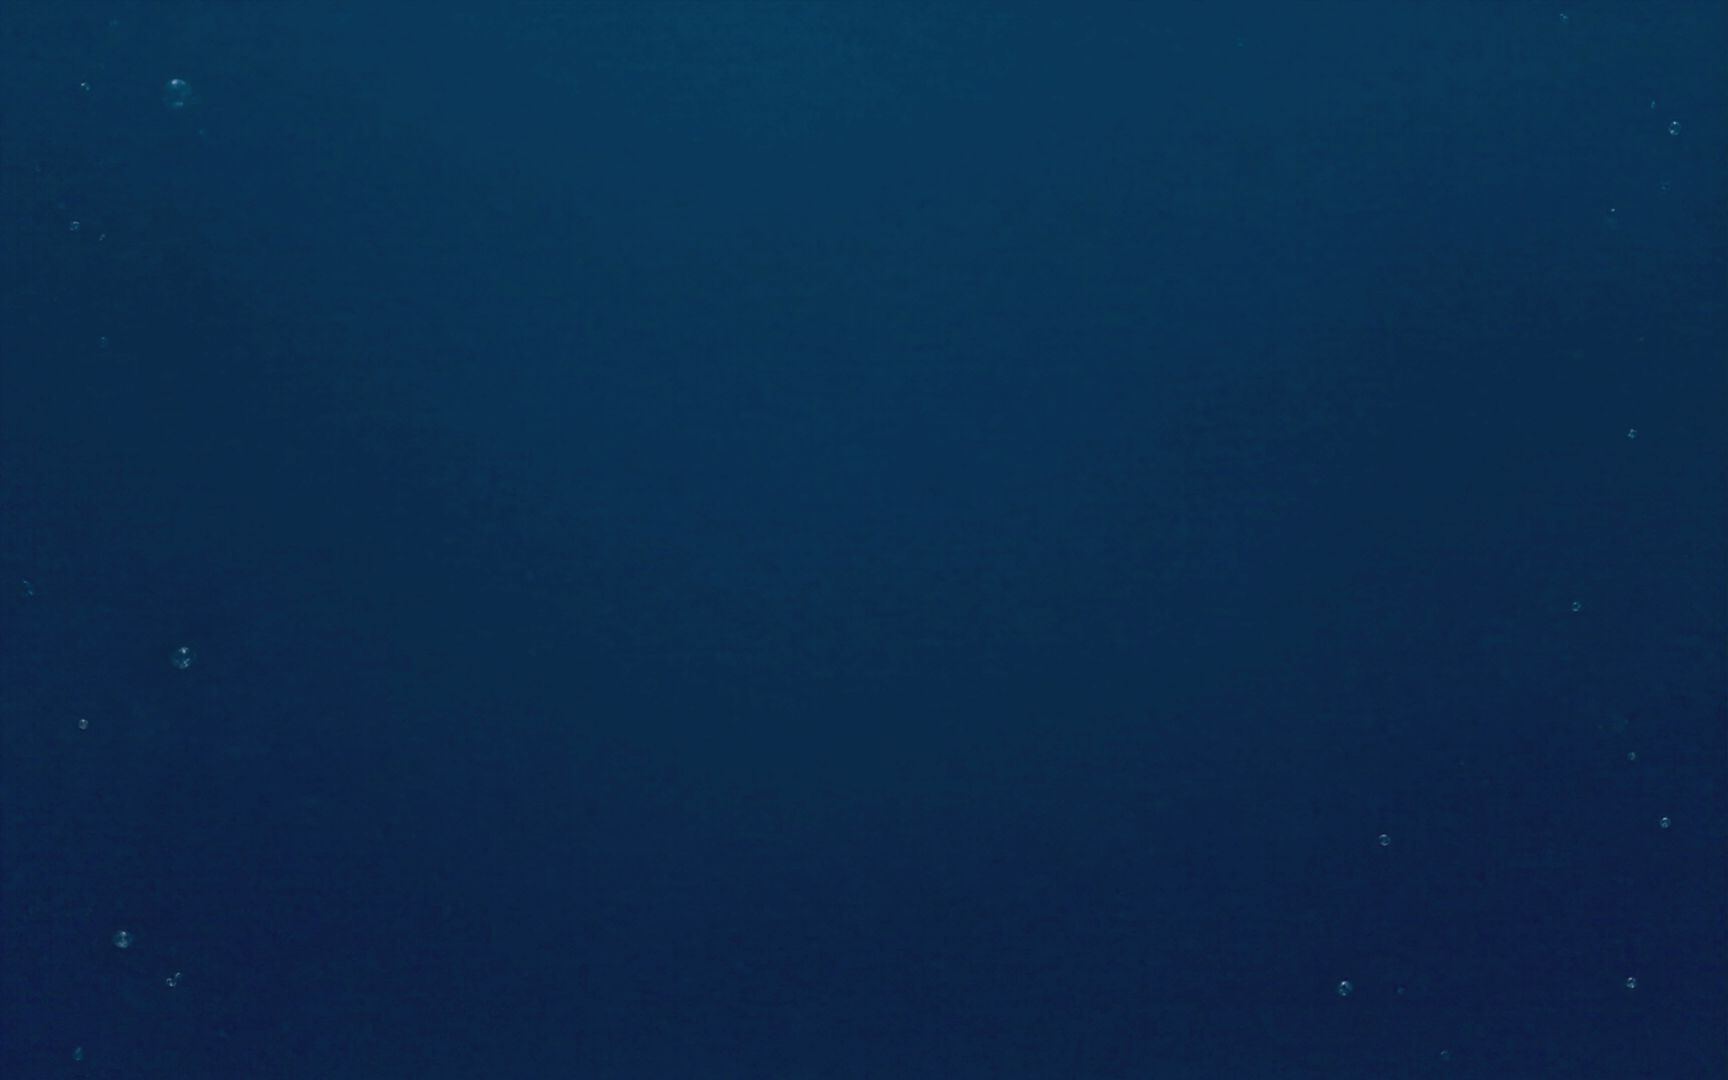
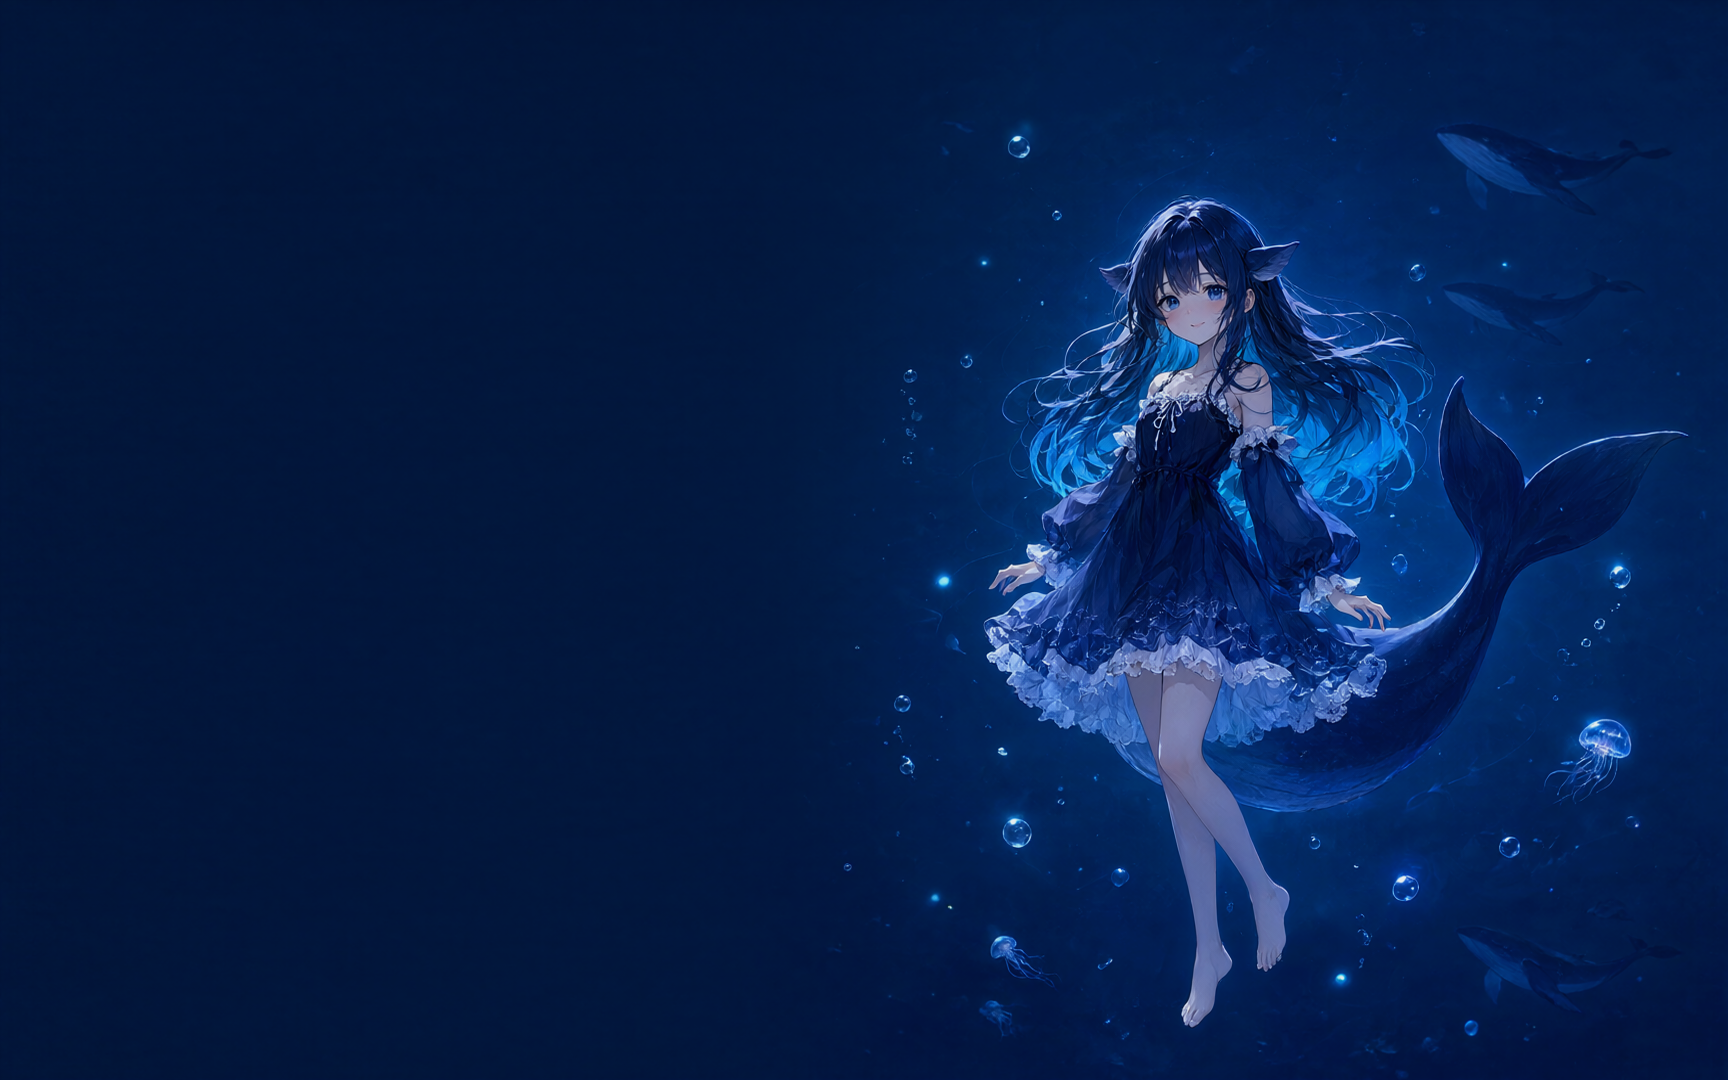
feat: 主题背景换成少女形态鲸鱼娘——主窗右下角站姿、面板底部探头
之前的主/面板背景是纯深海渐变（生成提示词明确要求无人物），观感只是
「换了背景色」。现在改成可复现的 character_backgrounds.py：文生图直接
出十几岁少女形态的鲸鱼娘（不用参考图，摆脱 Q 版女仆锚定）——

- main：少女站主窗右下角漂浮，左侧 2/3 深海留白给界面叠字
- panel：少女从面板底部探头挥手，上部 3/4 留白
- 生成后压对比 + 平均亮度低于 32 自动伽马抬升，保证深色 UI 里看得见
- gen_theme.py 的 --display-name/--character-name 默认值改为「鲸鱼娘」

diff --git a/tools/theme/character_backgrounds.py b/tools/theme/character_backgrounds.py
@@ -1,0 +1,96 @@
+# 生成「带鲸鱼娘角色」的主界面/面板背景：Qwen-Image 2.1 参考图引导，
+# 角色站在角落、大面深海留白给界面叠字。复用 gen_theme.py 的客户端与图构建。
+# 用法：python tools/theme/character_backgrounds.py --reference tools/theme/reference/whale_maid.jpg
+import argparse
+import io
+import sys
+import time
+from pathlib import Path
+
+sys.path.insert(0, str(Path(__file__).resolve().parent))
+from gen_theme import Comfy, generate_one  # noqa: E402
+
+from PIL import Image, ImageEnhance  # noqa: E402
+
+# (生成尺寸, 入库尺寸)：latent 步长要求 32 的倍数，入库尺寸差一点用缩放补。
+SIZES = {
+    'main': ((1728, 1056), (1728, 1080)),
+    'panel': ((1600, 896), (1600, 900)),
+}
+
+PROMPTS = {
+    'main': (
+        '横版桌面应用背景插画，深蓝色深夜海洋幻想世界。画面右侧站着一位'
+        '十几岁的鲸鱼少女：人类少女体型，及腰的深蓝色长发发梢渐变成浅蓝，'
+        '头上有小小的鲸鱼耳鳍，身后一条大大的深蓝色鲸鱼尾巴，穿着缀白色'
+        '蕾丝的深蓝色海洋风连衣裙，赤脚轻轻漂浮，长发扬起、裙摆在水中飘动，'
+        '温柔地微笑，身边环绕发光气泡、小水母、光斑和远处悠游的鲸鱼剪影，'
+        '人物完整清晰。画面左侧三分之二是干净的深海渐变、大量留白，供界面'
+        '文字排版。整体深海军蓝色调、柔和低对比、梦幻治愈，画面中没有任何文字。'
+    ),
+    'panel': (
+        '窄长竖向面板背景插画，深蓝色深夜海洋渐变。画面底部探出一位十几岁'
+        '鲸鱼少女的上半身：深蓝色长发发梢渐变浅蓝、鲸鱼耳鳍、身后露出一段'
+        '鲸鱼尾巴，穿着深蓝色海洋风连衣裙，温柔地微笑挥手，长发与气泡轻轻'
+        '飘动。画面上部四分之三是干净的深海渐变留白，供界面内容使用。'
+        '深海军蓝色调、柔和低对比、梦幻治愈，画面中没有任何文字。'
+    ),
+}
+
+SEEDS = {'main': 20261101, 'panel': 20261102}
+
+
+def mean_rgb(im):
+    im2 = im.convert('RGB').resize((1, 1))
+    return im2.getpixel((0, 0))
+
+
+def ensure_visible(im, floor=32):
+    """平均亮度低于 floor 就做伽马抬升，保证在深色 UI 里看得见。"""
+    mean = sum(mean_rgb(im)) / 3
+    if mean >= floor:
+        return im, None
+    gamma = 0.62
+    lut = [round(255 * (i / 255) ** gamma) for i in range(256)]
+    return im.point(lut * 3), mean
+
+
+def main():
+    ap = argparse.ArgumentParser()
+    ap.add_argument('--reference', default=None,
+                    help='可选：参考图（保角色用）。少女形态不用参考，纯文字生成')
+    ap.add_argument('--base', default='http://127.0.0.1:8188')
+    ap.add_argument('--out', default=None, help='背景输出目录（默认 themes/xiaoai-whale/backgrounds）')
+    args = ap.parse_args()
+
+    out_dir = Path(args.out) if args.out else \
+        Path(__file__).resolve().parents[2] / 'themes' / 'xiaoai-whale' / 'backgrounds'
+    out_dir.mkdir(parents=True, exist_ok=True)
+
+    comfy = Comfy(args.base)
+    ref_name = comfy.upload_input(args.reference) if args.reference else None
+    if ref_name:
+        print(f'[ref] {args.reference} -> {ref_name}')
+
+    for key in ('main', 'panel'):
+        (gen_size, out_size) = SIZES[key]
+        t0 = time.time()
+        data, dt = generate_one(comfy, PROMPTS[key], gen_size[0], gen_size[1],
+                                SEEDS[key], f'xiaoai_bg_char_{key}',
+                                ref_name=ref_name)
+        im = Image.open(io.BytesIO(data)).convert('RGB')
+        if im.size != gen_size:
+            im = im.crop((0, 0, min(im.width, gen_size[0]),
+                          min(im.height, gen_size[1])))
+        if im.size != out_size:
+            im = im.resize(out_size, Image.LANCZOS)
+        im = ImageEnhance.Contrast(im).enhance(0.92)
+        lifted, before = ensure_visible(im)
+        note = f' 亮度 {before} -> {mean_rgb(lifted)}' if before else \
+            f' 亮度 {mean_rgb(lifted)}'
+        lifted.save(out_dir / f'{key}.png')
+        print(f'[bg:{key}] {dt:.0f}s{note} -> {out_dir / f"{key}.png"}')
+
+
+if __name__ == '__main__':
+    main()

diff --git a/tools/theme/gen_theme.py b/tools/theme/gen_theme.py
@@ -577,8 +577,8 @@ def main():
     ap.add_argument('--theme-id', default='xiaoai-whale')
     ap.add_argument('--themes-dir', default=None,
                     help='themes 根目录（默认 <out>/../themes）')
-    ap.add_argument('--display-name', default='小爱 · 鲸鱼娘')
-    ap.add_argument('--character-name', default='小爱')
+    ap.add_argument('--display-name', default='鲸鱼娘')
+    ap.add_argument('--character-name', default='鲸鱼娘')
     args = ap.parse_args()
     if args.size % 32:
         sys.exit('--size 必须是 32 的倍数')
